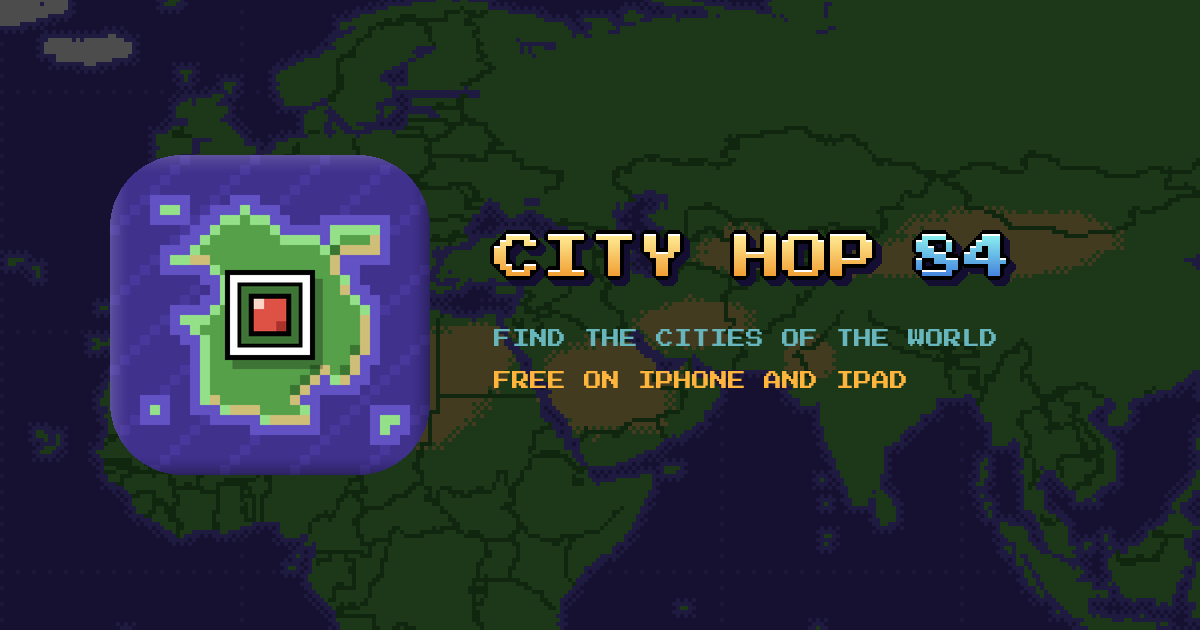
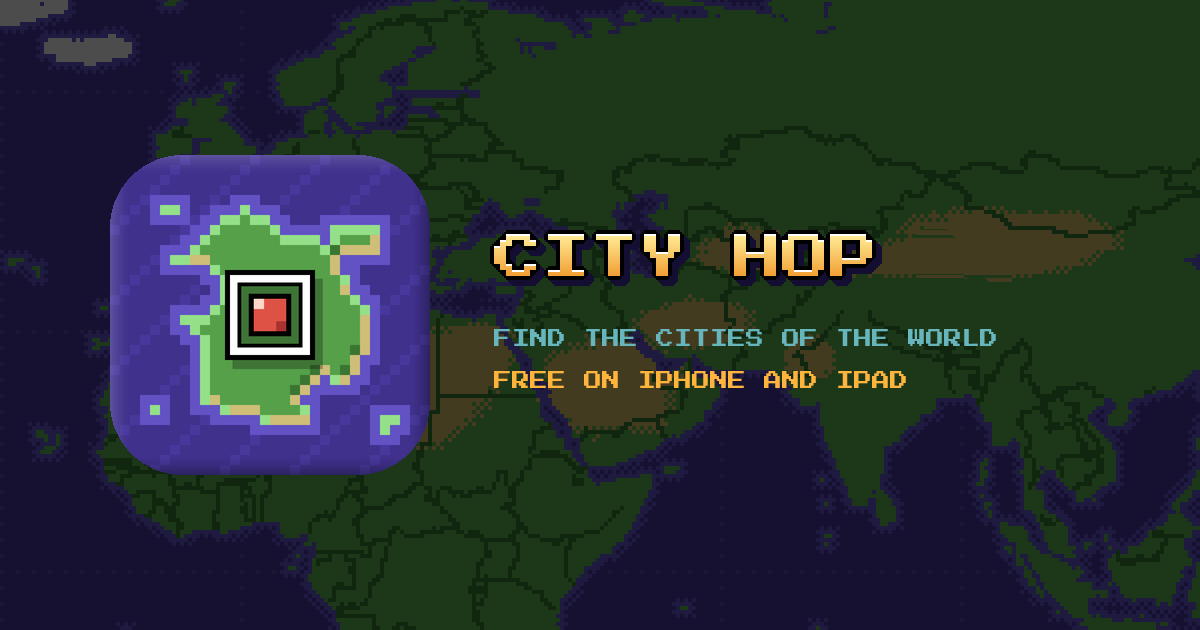
Add files via upload

Changed region(s): [[0.74, 0.3619, 0.8633, 0.4524]]

diff --git a/privacy.html b/privacy.html
@@ -3,19 +3,19 @@
 <head>
 <meta charset="utf-8">
 <meta name="viewport" content="width=device-width, initial-scale=1">
-<title>Privacy policy – City Hop 84</title>
+<title>Privacy policy – City Hop</title>
 <link rel="icon" href="icon.png">
 <link rel="stylesheet" href="style.css">
 </head>
 <body>
 <main>
   <header>
-    <img src="icon.png" alt="City Hop 84 app icon">
+    <img src="icon.png" alt="City Hop app icon">
     <h1>PRIVACY POLICY</h1>
-    <p class="tag">City Hop 84 · Last updated 18 November 2026</p>
+    <p class="tag">City Hop · Last updated 18 November 2026</p>
   </header>
 
-  <p>City Hop 84 is a game made by Jasper Vervoort, an independent developer in the Netherlands. This policy explains what happens with your data when you play. In short: I don't collect your personal data myself. The game shows ads from Google, and Google may use some device data for those ads, but only as you allow.</p>
+  <p>City Hop is a game made by Jasper Vervoort, an independent developer in the Netherlands. This policy explains what happens with your data when you play. In short: I don't collect your personal data myself. The game shows ads from Google, and Google may use some device data for those ads, but only as you allow.</p>
 
   <h2>What the game stores on your device</h2>
   <p>Your best scores, the cities you've found, unlocked vehicles and your settings (sound, vibration and so on) are saved only on your own device. They are never sent to me. Deleting the app deletes them.</p>
@@ -39,7 +39,7 @@
   <p>The game has no sign-up and no account of its own, and it does not use analytics or crash-reporting services of its own.</p>
 
   <h2>Children</h2>
-  <p>City Hop 84 is suitable for all ages, but it is not specifically directed at children under 13. I do not knowingly collect personal data from children. Parents can turn off ad tracking for their child's device in iOS Settings › Privacy & Security › Tracking, or buy Remove ads.</p>
+  <p>City Hop is suitable for all ages, but it is not specifically directed at children under 13. I do not knowingly collect personal data from children. Parents can turn off ad tracking for their child's device in iOS Settings › Privacy & Security › Tracking, or buy Remove ads.</p>
 
   <h2>Your rights</h2>
   <p>Under the GDPR you have the right to access, correct and delete your personal data, and to object to its use. Because I don't hold personal data about you, requests about ad data are best sent to Google, but you're always welcome to contact me and I'll help. You can also complain to the Dutch data protection authority (Autoriteit Persoonsgegevens).</p>
@@ -54,7 +54,7 @@
     <a href="index.html">Home</a>
     <a href="support.html">Support</a>
   </nav>
-  <footer>© 2026 City Hop 84</footer>
+  <footer>© 2026 City Hop</footer>
 </main>
 </body>
 </html>

diff --git a/index.html b/index.html
@@ -3,11 +3,11 @@
 <head>
 <meta charset="utf-8">
 <meta name="viewport" content="width=device-width, initial-scale=1">
-<title>City Hop 84</title>
-<meta name="description" content="City Hop 84 is an original retro geography game for iPhone and iPad. Fly or sail to cities around the world before time runs out.">
+<title>City Hop</title>
+<meta name="description" content="City Hop is an original retro geography game for iPhone and iPad. Fly or sail to cities around the world before time runs out.">
 <link rel="icon" href="icon.png">
 <link rel="apple-touch-icon" href="icon.png">
-<meta property="og:title" content="City Hop 84">
+<meta property="og:title" content="City Hop">
 <meta property="og:description" content="Fly or sail to cities around the world before time runs out. A retro geography game for iPhone and iPad.">
 <meta property="og:image" content="https://cityhop84app.github.io/og-image.png">
 <meta property="og:url" content="https://cityhop84app.github.io/">
@@ -17,13 +17,13 @@
 <body>
 <main>
   <header>
-    <img src="icon.png" alt="City Hop 84 app icon">
-    <h1>CITY HOP 84</h1>
+    <img src="icon.png" alt="City Hop app icon">
+    <h1>CITY HOP</h1>
     <p class="tag">An original retro geography game for iPhone and iPad.</p>
     <!-- APP STORE BADGE
          When the app is live: replace the "coming soon" line below with the official
          "Download on the App Store" badge from https://tools.applemarketingtools.com
-         (search for City Hop 84, pick the black badge, copy the code it gives you). -->
+         (search for City Hop, pick the black badge, copy the code it gives you). -->
     <p class="cta"><span class="soon">Coming soon to the App Store</span></p>
   </header>
 
@@ -43,15 +43,12 @@
     </ul>
   </div>
 
-  <h2>Why 84?</h2>
-  <p>City Hop 84 is a love letter to the 8-bit home computers of the mid-80s: chunky pixels, chiptune music and the simple fun of beating the clock.</p>
-
   <nav>
     <a href="privacy.html">Privacy policy</a>
     <a href="support.html">Support</a>
   </nav>
 
-  <footer>© 2026 City Hop 84</footer>
+  <footer>© 2026 City Hop</footer>
 </main>
 </body>
 </html>

diff --git a/support.html b/support.html
@@ -3,16 +3,16 @@
 <head>
 <meta charset="utf-8">
 <meta name="viewport" content="width=device-width, initial-scale=1">
-<title>Support – City Hop 84</title>
+<title>Support – City Hop</title>
 <link rel="icon" href="icon.png">
 <link rel="stylesheet" href="style.css">
 </head>
 <body>
 <main>
   <header>
-    <img src="icon.png" alt="City Hop 84 app icon">
+    <img src="icon.png" alt="City Hop app icon">
     <h1>SUPPORT</h1>
-    <p class="tag">Help with City Hop 84</p>
+    <p class="tag">Help with City Hop</p>
   </header>
 
   <div class="panel">
@@ -38,7 +38,7 @@
     <a href="index.html">Home</a>
     <a href="privacy.html">Privacy policy</a>
   </nav>
-  <footer>© 2026 City Hop 84</footer>
+  <footer>© 2026 City Hop</footer>
 </main>
 </body>
 </html>
